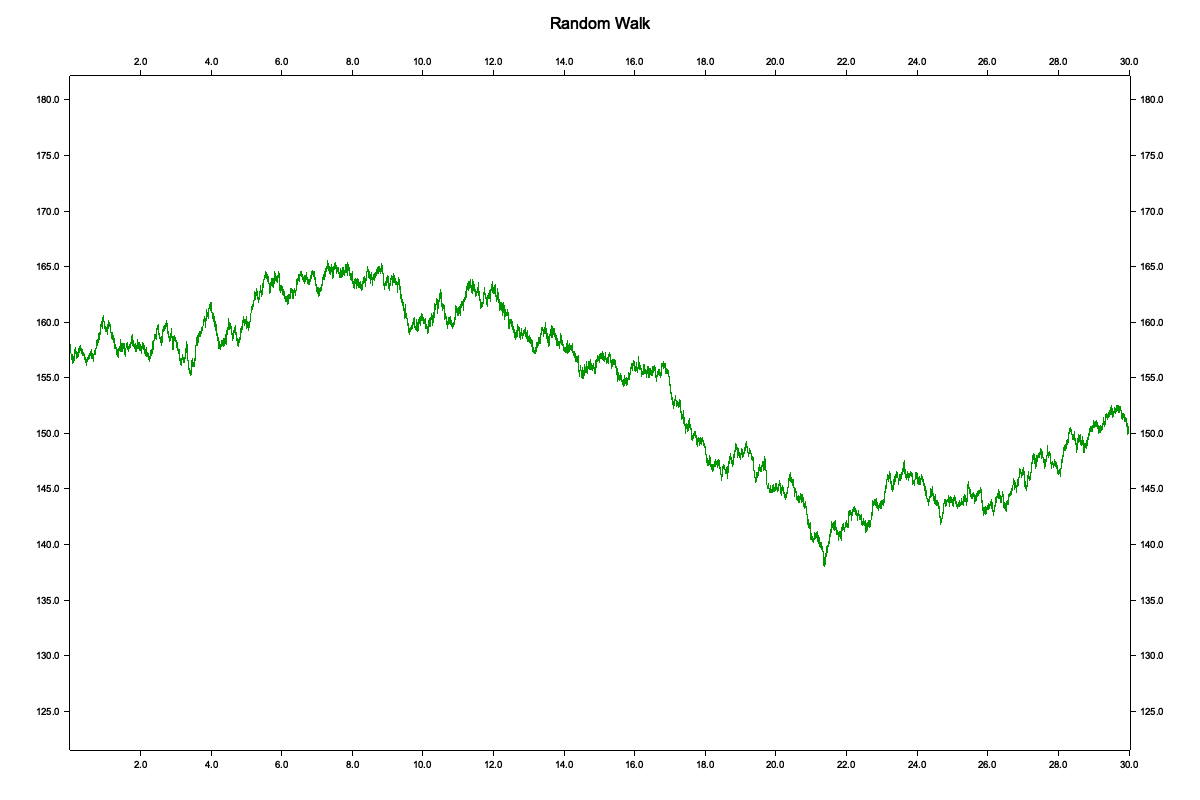
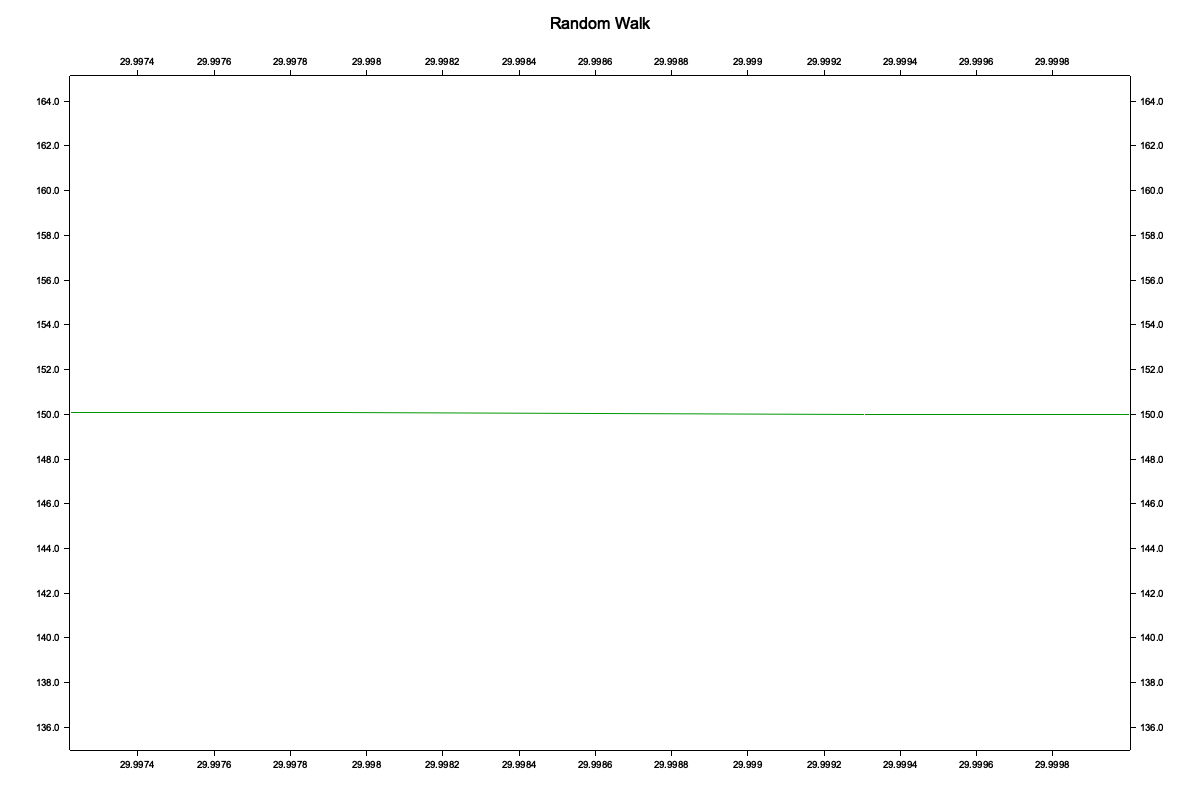
Add historical data-based chain builder example
Introduced `historical_build_chain.rs` to demonstrate option chain simulation using historical price data and volatility adjustments. Minor updates were made to `random_walk_build_chain.rs`, including reorganization of imports and parameter changes. Updated drawings for both simulation types.

diff --git a/examples/examples_simulation/src/bin/historical_build_chain.rs b/examples/examples_simulation/src/bin/historical_build_chain.rs
@@ -4,10 +4,13 @@ use optionstratlib::chains::{OptionChainBuildParams, generator_optionchain};
 use optionstratlib::simulation::randomwalk::RandomWalk;
 use optionstratlib::simulation::steps::{Step, Xstep, Ystep};
 use optionstratlib::simulation::{WalkParams, WalkType, WalkTypeAble};
-use optionstratlib::utils::setup_logger;
-use optionstratlib::utils::time::{TimeFrame, convert_time_frame, get_x_days_formatted};
+use optionstratlib::utils::others::calculate_log_returns;
+use optionstratlib::utils::time::{TimeFrame, get_x_days_formatted};
+use optionstratlib::utils::{read_ohlcv_from_zip, setup_logger};
 use optionstratlib::visualization::utils::{Graph, GraphBackend};
+use optionstratlib::volatility::{adjust_volatility, constant_volatility};
 use optionstratlib::{ExpirationDate, Positive, pos};
+use rust_decimal::Decimal;
 use rust_decimal_macros::dec;
 use tracing::{debug, info};
 
@@ -24,26 +27,41 @@ impl WalkTypeAble<Positive, OptionChain> for Walker {}
 
 fn main() -> Result<(), Box<dyn std::error::Error>> {
     setup_logger();
-    // let n_steps = 43_200; // 30 days in minutes
-    let n_steps = 5; // 30 days in minutes
-    let underlying_price = pos!(150.0);
+
+    let ohlc = read_ohlcv_from_zip("examples/Data/cl-1m-sample.zip", None, None)?;
+    let ohlc = ohlc.iter().take(1000).collect::<Vec<_>>(); // Take only 1000 minutes
+    let prices: Vec<Positive> = ohlc.iter().map(|x| Positive::from(x.close)).collect();
+    let log_returns: Vec<Decimal> = calculate_log_returns(&prices)?
+        .iter()
+        .map(|p| p.to_dec())
+        .collect();
+    let implied_volatility = adjust_volatility(
+        constant_volatility(&log_returns)?,
+        TimeFrame::Minute,
+        TimeFrame::Year,
+    )?;
+
+    info!("Volatility {}", implied_volatility);
+    info!("Prices Lenght: {}", prices.len());
+
+    let n_steps = prices.len();
+    let underlying_price = prices[0];
     let days = pos!(30.0);
-    let std_dev = pos!(20.0);
-    let implied_volatility = Some(std_dev / 100.0);
+    // let std_dev = implied_volatility * 100.0;
     let risk_free_rate = dec!(0.02);
     let dividend_yield = pos!(0.01);
     let symbol = "AAPL".to_string();
     let volume = Some(Positive::ONE);
     let chain_size = 30;
     let strike_interval = pos!(1.0);
-    let skew_factor = dec!(0.00001);
+    let skew_factor = dec!(0.0005);
     let spread = pos!(0.01);
     let decimal_places = 2;
 
     let price_params = OptionDataPriceParams::new(
         underlying_price,
         ExpirationDate::Days(days),
-        implied_volatility,
+        Some(implied_volatility),
         risk_free_rate,
         dividend_yield,
         Some(symbol.clone()),
@@ -68,10 +86,9 @@ fn main() -> Result<(), Box<dyn std::error::Error>> {
             x: Xstep::new(Positive::ONE, TimeFrame::Minute, ExpirationDate::Days(days)),
             y: Ystep::new(0, initial_chain),
         },
-        walk_type: WalkType::GeometricBrownian {
-            dt: convert_time_frame(pos!(1.0) / days, &TimeFrame::Minute, &TimeFrame::Day),
-            drift: dec!(0.0),
-            volatility: std_dev,
+        walk_type: WalkType::Historical {
+            timeframe: TimeFrame::Minute,
+            prices,
         },
         walker: walker,
     };
@@ -85,11 +102,12 @@ fn main() -> Result<(), Box<dyn std::error::Error>> {
 
     random_walk.graph(
         GraphBackend::Bitmap {
-            file_path: "Draws/Simulation/random_walk_build_chain.png",
+            file_path: "Draws/Simulation/historical_build_chain.png",
             size: (1200, 800),
         },
         20,
     )?;
+    info!("First Chain: {}", random_walk.first().unwrap().y.value());
     info!("Last Chain: {}", random_walk.last().unwrap().y.value());
 
     Ok(())
